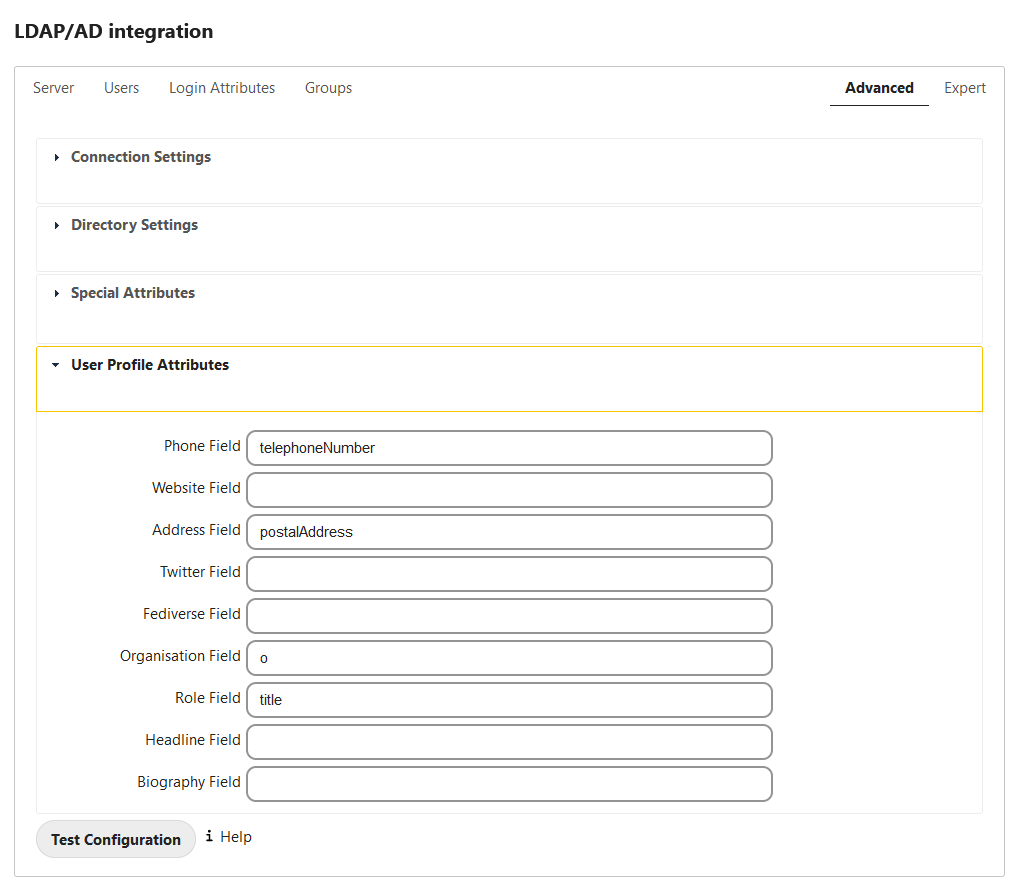
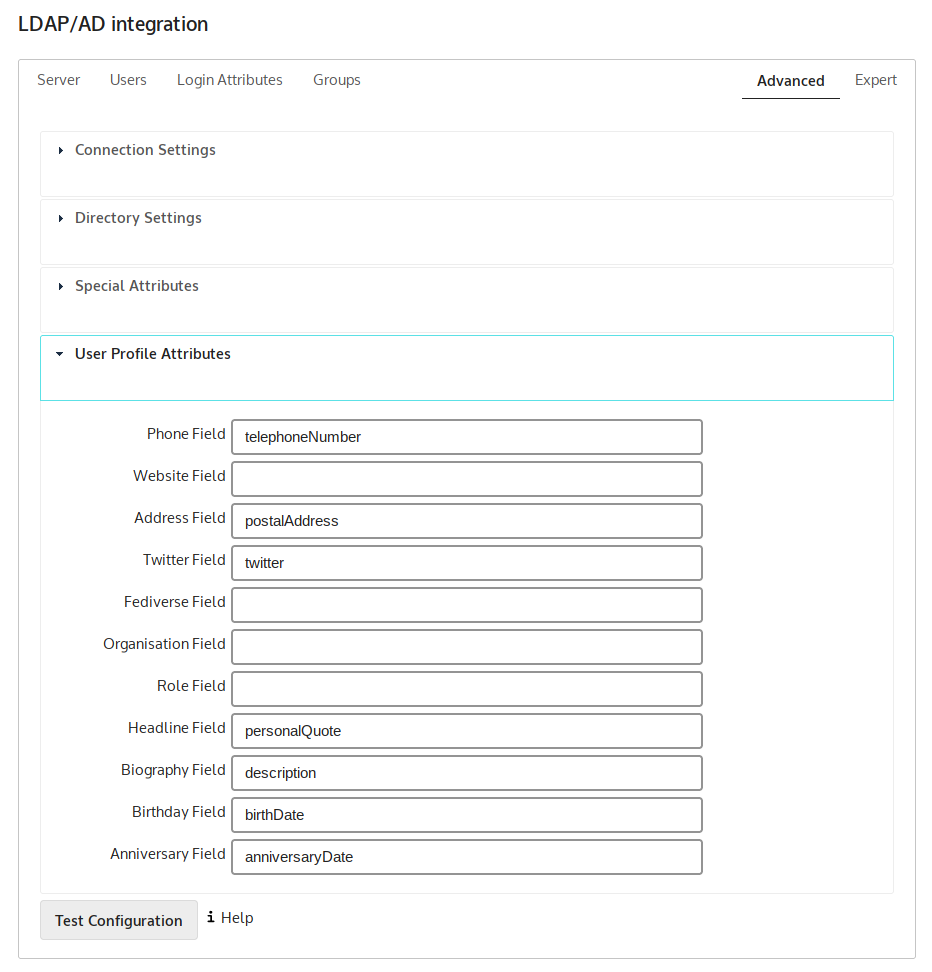
Add additional user profile attributes from LDAP

diff --git a/admin_manual/configuration_user/user_auth_ldap.rst b/admin_manual/configuration_user/user_auth_ldap.rst
@@ -544,6 +544,12 @@ Biography Field:
   Multi line value with unix LF line ending.
   Windows CRLF and Macintosh CR line endings will be replaced with unix LF line ending.
 
+Birthday Field:
+  The LDAP attribute holding the users birth date.
+
+Anniversary Field:
+  The LDAP attribute holding the users anniversary date.
+
 Expert settings
 ---------------
 
